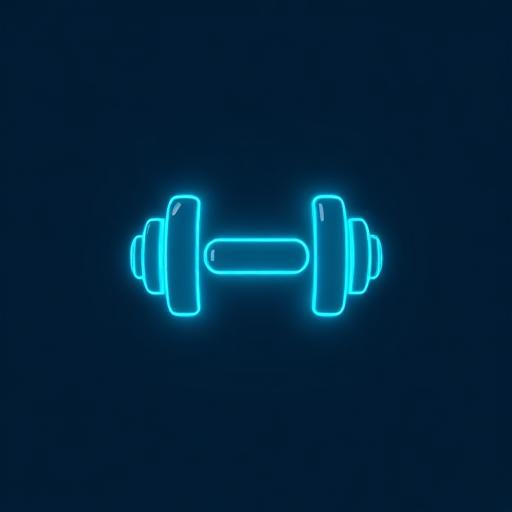
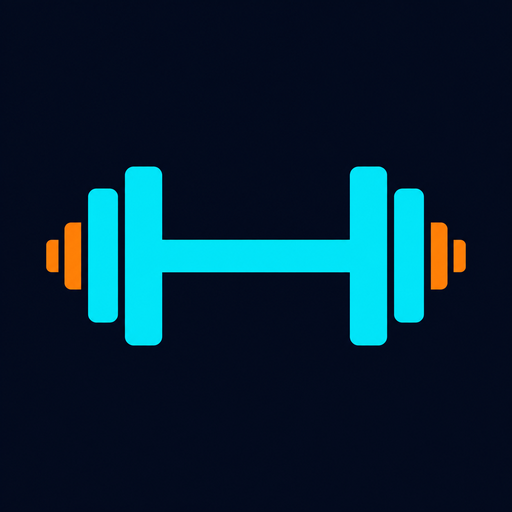
Agrega icono e instalacion PWA

Changed region(s): [[0.0625, 0.2188, 0.9375, 0.7812], [0.9688, 0.9688, 1.0, 1.0], [0.5625, 0.0312, 0.5938, 0.0625]]

diff --git a/public/sw.js b/public/sw.js
@@ -1,0 +1,64 @@
+const CACHE_NAME = "gym-cdsa-v1";
+const BASE_PATH = new URL(self.registration.scope).pathname;
+const APP_SHELL = [
+  BASE_PATH,
+  `${BASE_PATH}manifest.webmanifest`,
+  `${BASE_PATH}icon-192.png`,
+  `${BASE_PATH}icon-512.png`,
+  `${BASE_PATH}apple-touch-icon.png`,
+];
+
+self.addEventListener("install", (event) => {
+  event.waitUntil(
+    caches
+      .open(CACHE_NAME)
+      .then((cache) => cache.addAll(APP_SHELL))
+      .then(() => self.skipWaiting()),
+  );
+});
+
+self.addEventListener("activate", (event) => {
+  event.waitUntil(
+    caches
+      .keys()
+      .then((keys) =>
+        Promise.all(keys.filter((key) => key !== CACHE_NAME).map((key) => caches.delete(key))),
+      )
+      .then(() => self.clients.claim()),
+  );
+});
+
+self.addEventListener("fetch", (event) => {
+  const { request } = event;
+  if (request.method !== "GET") return;
+
+  const url = new URL(request.url);
+  if (url.origin !== self.location.origin || !url.pathname.startsWith(BASE_PATH)) return;
+
+  if (request.mode === "navigate") {
+    event.respondWith(
+      fetch(request)
+        .then((response) => {
+          const copy = response.clone();
+          caches.open(CACHE_NAME).then((cache) => cache.put(request, copy));
+          return response;
+        })
+        .catch(async () => (await caches.match(request)) || caches.match(BASE_PATH)),
+    );
+    return;
+  }
+
+  event.respondWith(
+    caches.match(request).then(
+      (cached) =>
+        cached ||
+        fetch(request).then((response) => {
+          if (response.ok) {
+            const copy = response.clone();
+            caches.open(CACHE_NAME).then((cache) => cache.put(request, copy));
+          }
+          return response;
+        }),
+    ),
+  );
+});

diff --git a/src/routes/__root.tsx b/src/routes/__root.tsx
@@ -84,9 +84,9 @@ export const Route = createRootRouteWithContext<{ queryClient: QueryClient }>()(
     ],
     links: [
       { rel: "stylesheet", href: appCss },
-      { rel: "manifest", href: "/manifest.webmanifest" },
-      { rel: "icon", href: "/icon-192.png", type: "image/png" },
-      { rel: "apple-touch-icon", href: "/icon-192.png" },
+      { rel: "manifest", href: `${import.meta.env.BASE_URL}manifest.webmanifest` },
+      { rel: "icon", href: `${import.meta.env.BASE_URL}icon-192.png`, type: "image/png" },
+      { rel: "apple-touch-icon", href: `${import.meta.env.BASE_URL}apple-touch-icon.png` },
       { rel: "preconnect", href: "https://fonts.googleapis.com" },
       { rel: "preconnect", href: "https://fonts.gstatic.com", crossOrigin: "anonymous" },
       {
@@ -117,6 +117,27 @@ function RootShell({ children }: { children: ReactNode }) {
 
 function RootComponent() {
   const { queryClient } = Route.useRouteContext();
+
+  useEffect(() => {
+    if (!("serviceWorker" in navigator)) return;
+
+    const registerServiceWorker = () => {
+      navigator.serviceWorker
+        .register(`${import.meta.env.BASE_URL}sw.js`, {
+          scope: import.meta.env.BASE_URL,
+        })
+        .catch((error) => console.error("No se pudo activar el modo instalable", error));
+    };
+
+    if (document.readyState === "complete") {
+      registerServiceWorker();
+      return;
+    }
+
+    window.addEventListener("load", registerServiceWorker, { once: true });
+    return () => window.removeEventListener("load", registerServiceWorker);
+  }, []);
+
   return (
     <QueryClientProvider client={queryClient}>
       <AppLayout>